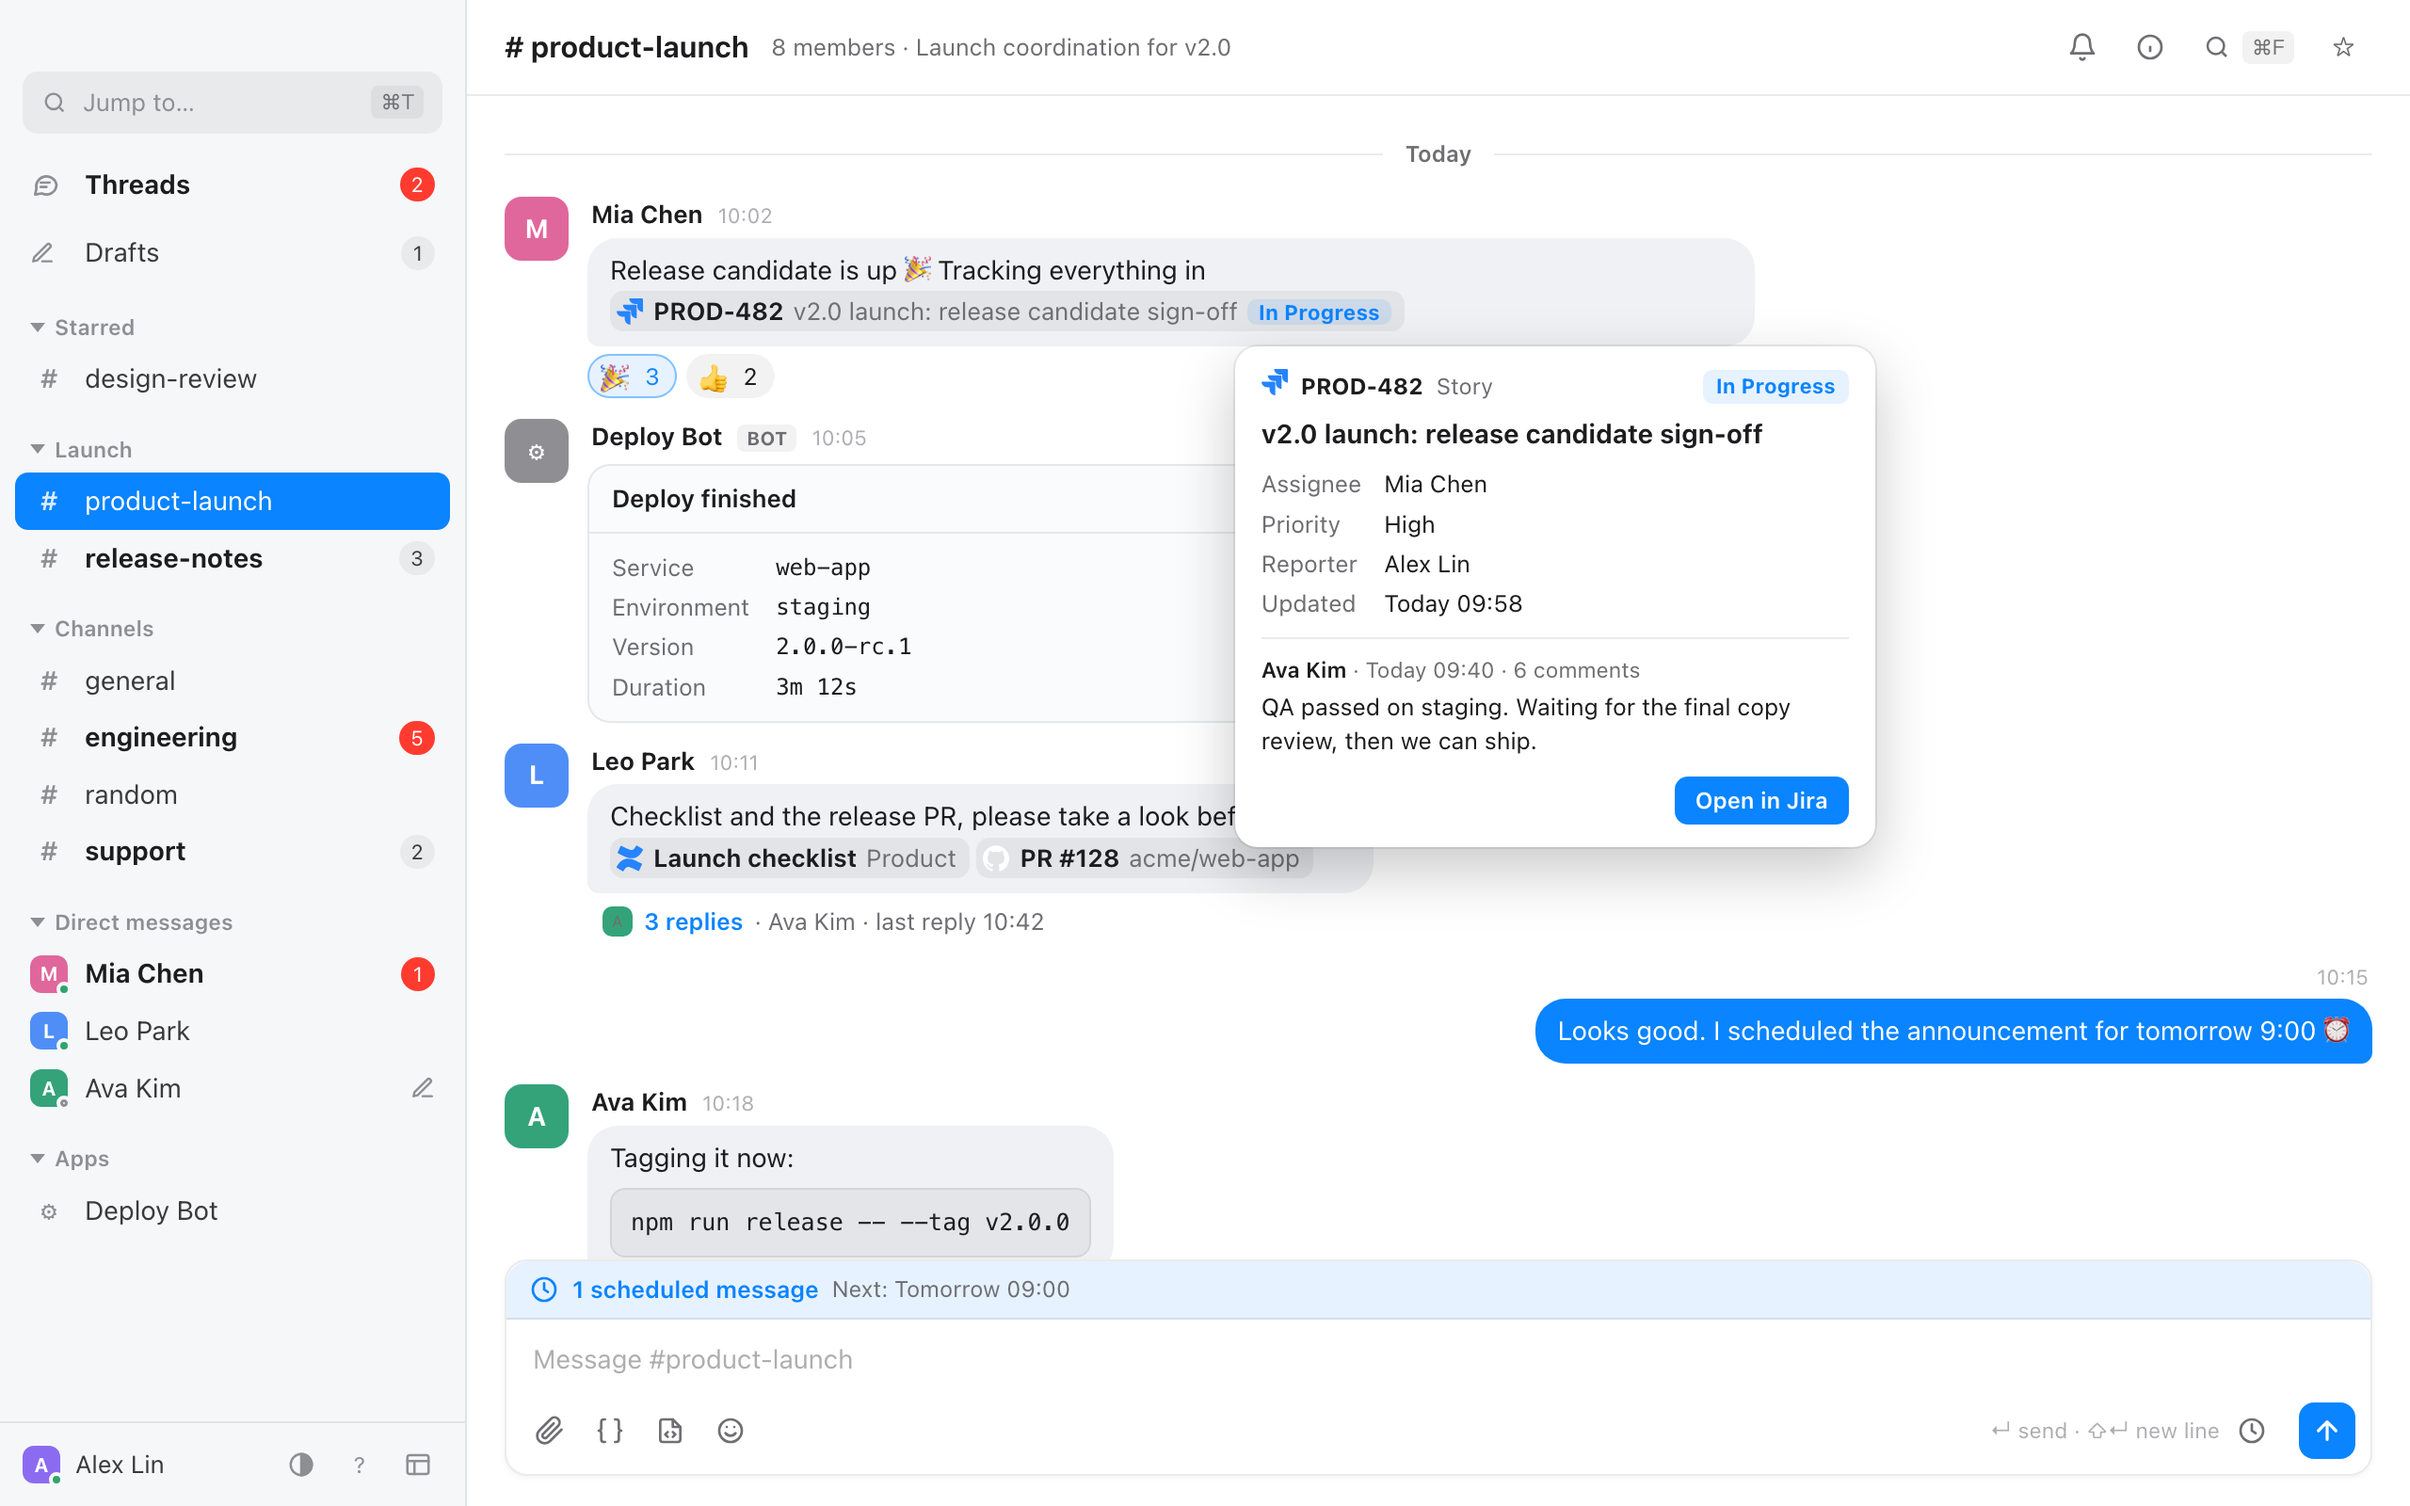
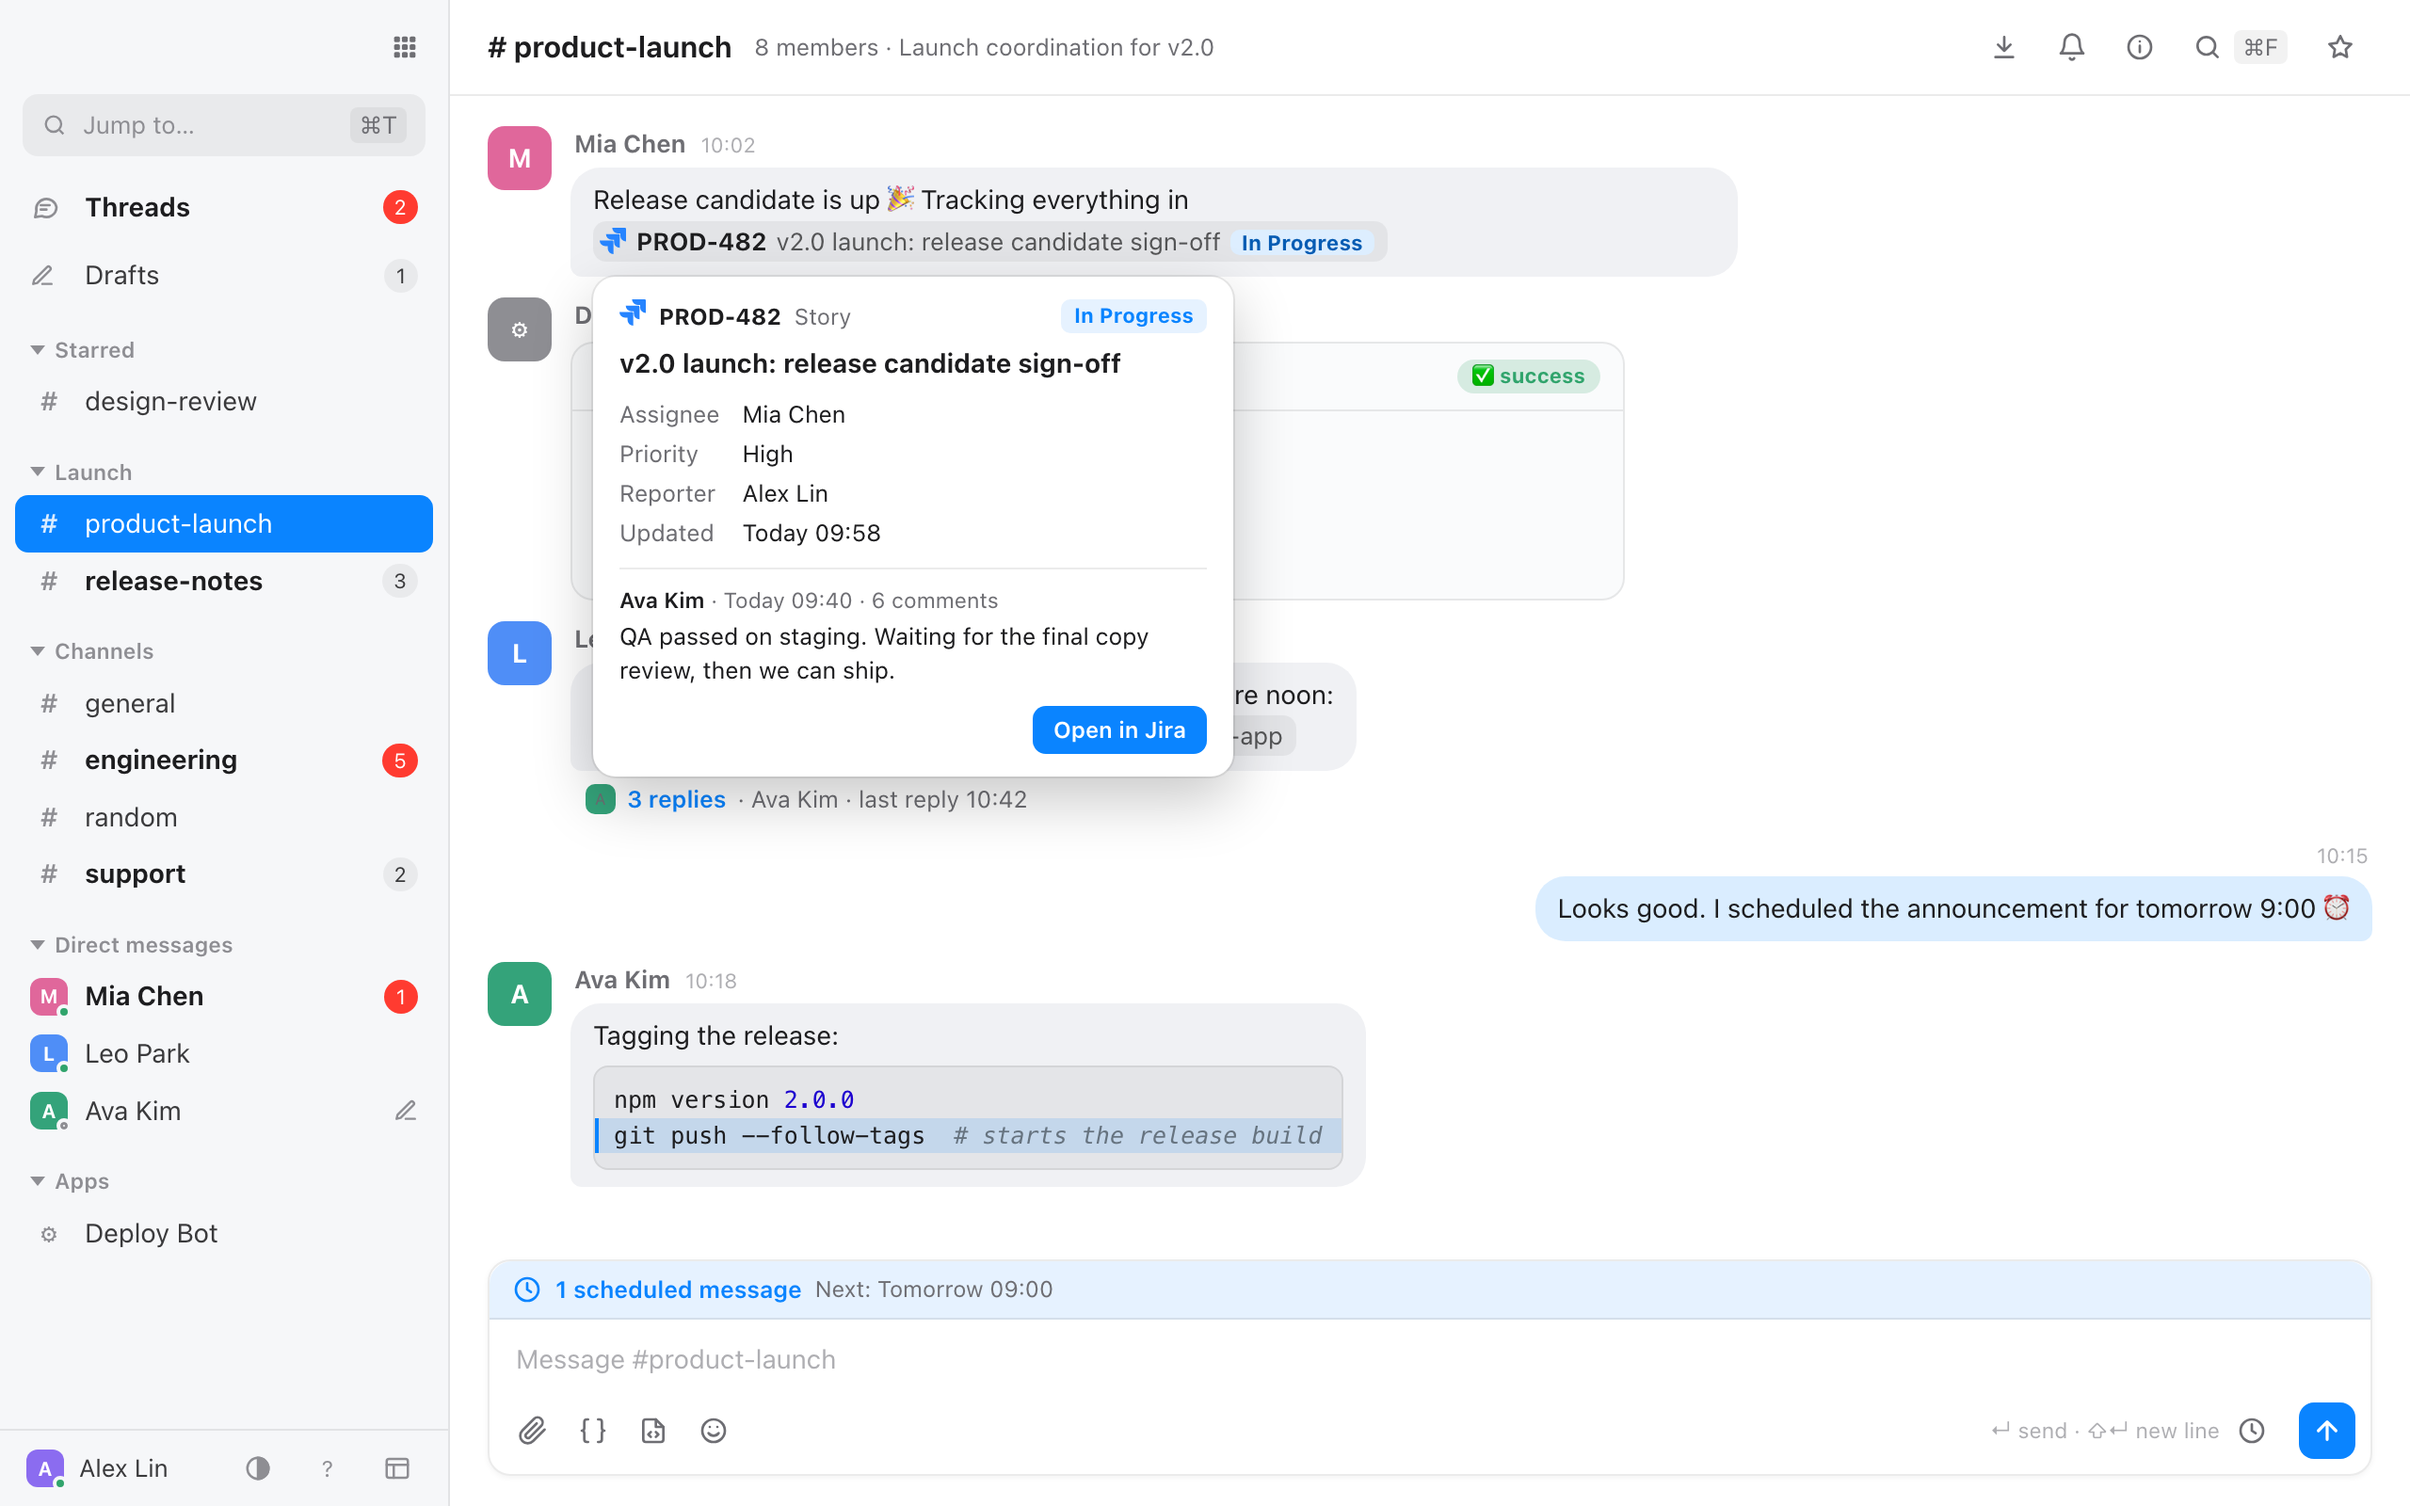
README: 0.6.0 (downloads, code highlighting, Apps, compact layout); refreshed pictures

diff --git a/README.md b/README.md
@@ -4,7 +4,7 @@
 
 <picture>
   <source media="(prefers-color-scheme: dark)" srcset="images/hero-dark.png">
-  <img alt="Chat+ for Synology: conversation with sections, a bot card, link chips and a Jira hover card" src="images/hero-light.png">
+  <img alt="Chat+ for Synology: conversation with sections, link chips, a highlighted code block and a Jira hover card" src="images/hero-light.png">
 </picture>
 
 Chat+ opens the Synology Chat web app from your own NAS and draws a new interface over it. Sign-in, messages, encryption and notifications stay with Synology; Chat+ only changes how they look and how fast you get around.
@@ -18,12 +18,13 @@ Chat+ opens the Synology Chat web app from your own NAS and draws a new interfac
 ## Highlights
 
 **A calmer interface**
-- Message bubbles, a resizable sidebar, light and dark themes
+- Message bubbles or a compact layout, a resizable sidebar, light and dark themes
 - Your own sidebar sections (drag conversations in, fold to unread), drafts that survive restarts
 - Bot posts made of `Key: value` lines become cards; runs of bot posts fold together
 - A threads inbox across all conversations
 - Mentions show each person's picture and name; in the message box a mention is one piece, removed with one Backspace
 - See who's typing, with their pictures above the message box
+- Code blocks are syntax-highlighted: name the language (```` ```js ````, `sql`, `py`, `bash`…) or let Chat+ guess, and mark lines with ```` ```js {2-3} ````
 
 **Keyboard first**
 - ⌘T jumps to any conversation, unread first · ⌃Tab cycles recent ones
@@ -31,6 +32,7 @@ Chat+ opens the Synology Chat web app from your own NAS and draws a new interfac
 - ⌃⌥Space brings Chat+ forward from any app, with the switcher open (change or turn it off in your profile card)
 - ⌘⇧T opens the threads you follow; arrows and Enter take you through them
 - ⌘F searches this conversation, ⇧⌘F everywhere (`from:` `in:` `has:`) · ⌘/ lists every shortcut
+- ⌘⇧J your downloads · ⌘⇧A your Synology apps
 
 **Links and previews**
 - Jira, Confluence, GitHub, Bitbucket, Google Docs and more become tidy chips; long URLs are shortened
@@ -41,6 +43,8 @@ Chat+ opens the Synology Chat web app from your own NAS and draws a new interfac
 - Schedule a message for later, set reminders on any message, slash commands as in Synology's own client
 - ⌘I shows a conversation's files and links (searchable, by type) and its members, invites people, and lets you leave a channel
 - Right-click a message for quick reactions and every message action
+- Downloads go straight to your Downloads folder, with progress in the header and a list to pause, open or show in Finder
+- The Apps button opens Synology Drive, Calendar and your other DSM apps, like the classic App Launcher
 
 <picture>
   <source media="(prefers-color-scheme: dark)" srcset="images/switcher-dark.png">
